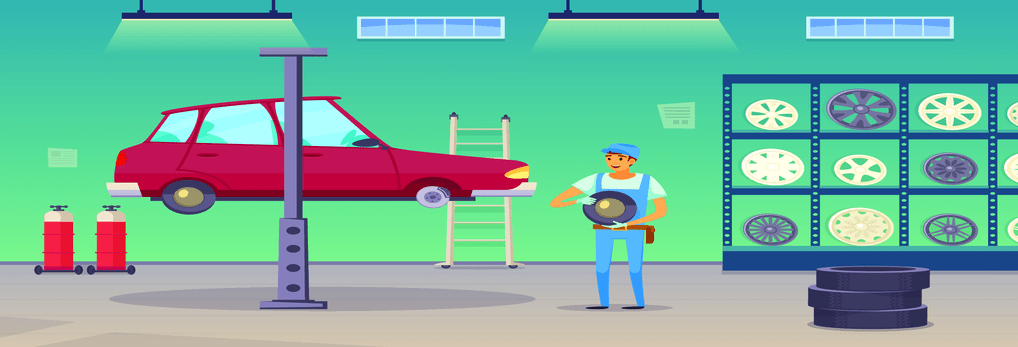
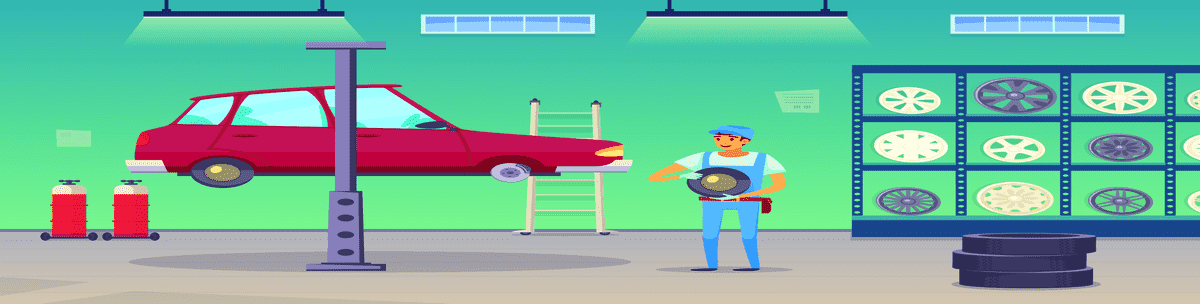
max-width home

diff --git a/allomecano_project/public/assets/css/css.css b/allomecano_project/public/assets/css/css.css
@@ -296,13 +296,13 @@ body {
     color: white;
     border: solid 1px lightgray;
     border-radius: 3px;
-    margin: 0 1.2em 1.2em 1.2em;
     height: 19em;
     top: 1em;
     margin-bottom: 2em;
     background-image: url('/assets/img/professional-wanted.png');
     background-position: center center;
     background-repeat: no-repeat;
+    max-width: 1200px;
 }
 
 .professionnal-services {
@@ -323,4 +323,8 @@ body {
     opacity: 0.8;
     color: #3c4f76;
     font-weight: bold;
+}
+
+.max-1200 {
+    max-width: 1200px;
 }
